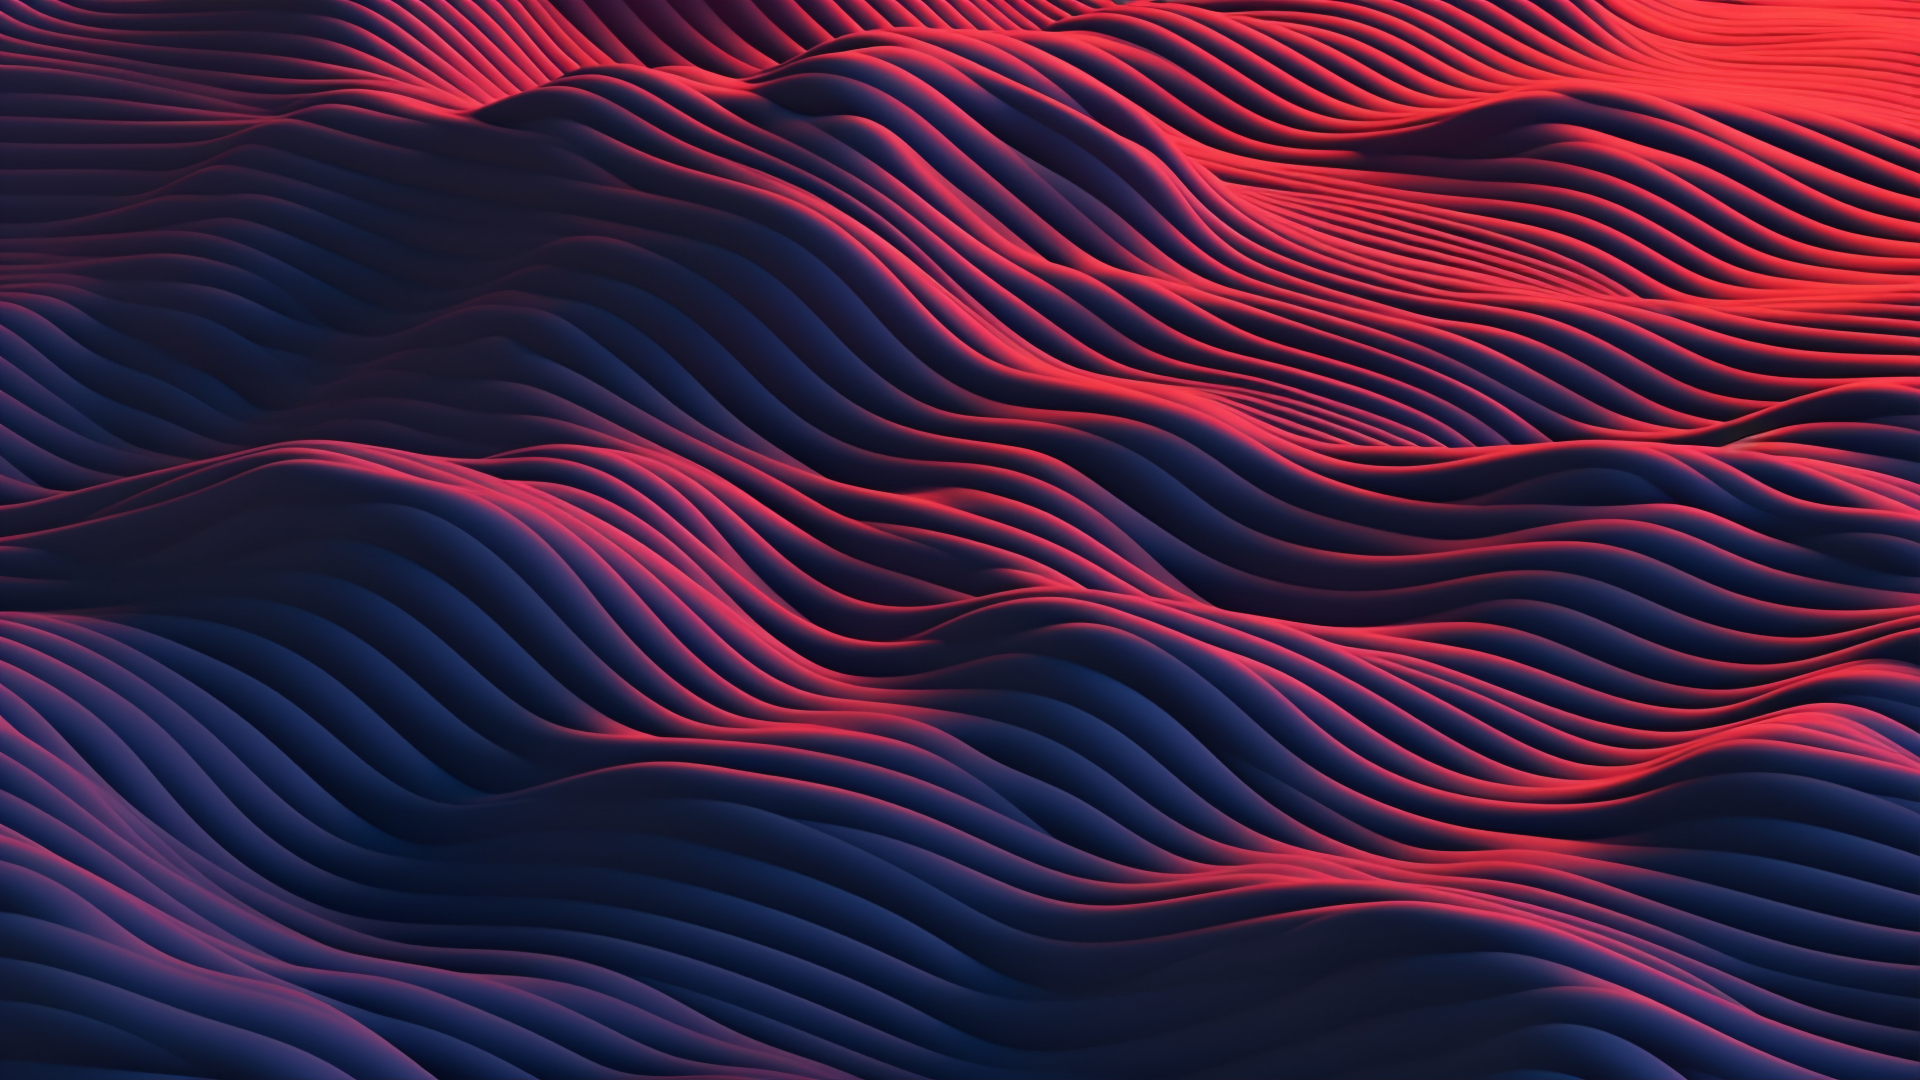
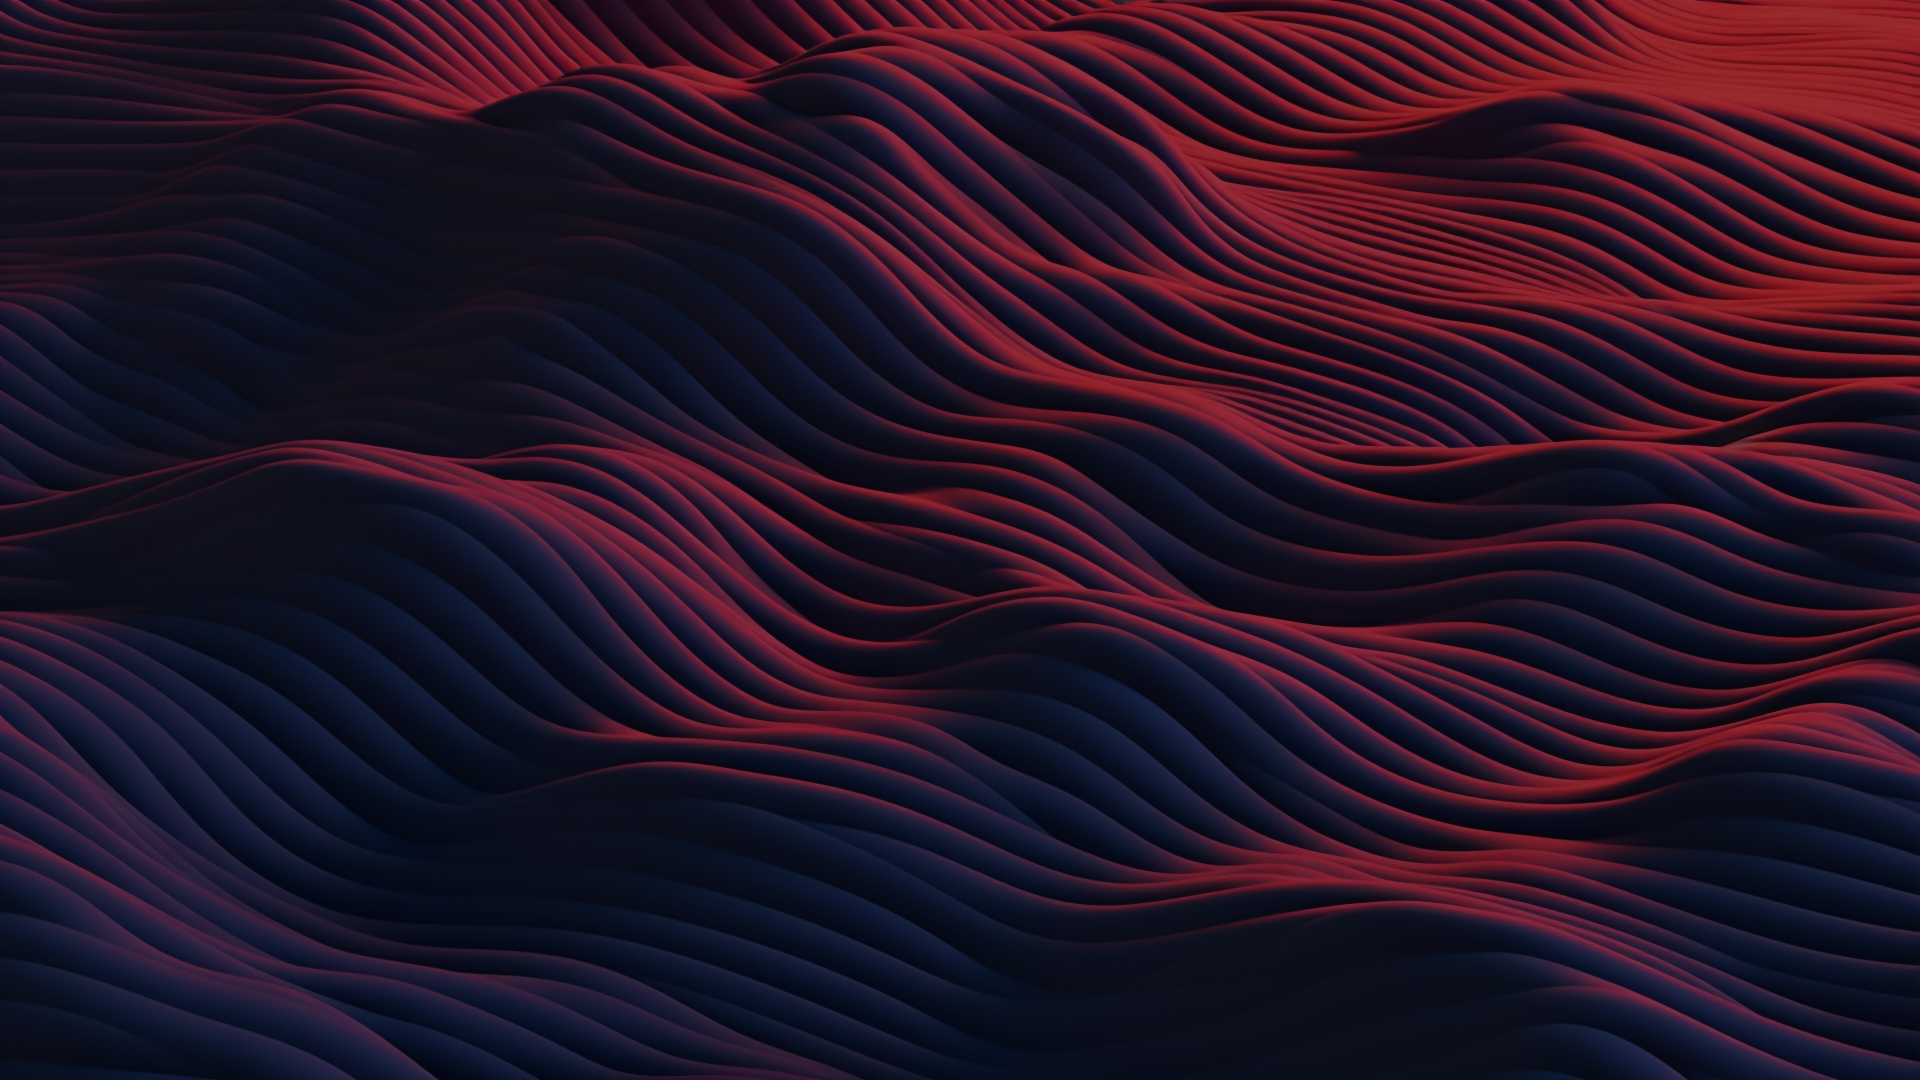
Layouts, backgrounds, and other quick fixes

diff --git a/src/pages/SingleMovie/SingleMovie.js b/src/pages/SingleMovie/SingleMovie.js
@@ -32,10 +32,10 @@ export default class SingleMovie extends Lightning.Component {
           zIndex: 2,
         },
         Image: {
-          w: 1570,
-          h: 1080,
           y: 0,
           x: 350,
+          w: 1570,
+          h: 883,
           zIndex: 1,
         },
         BackButton: {
@@ -164,6 +164,7 @@ export default class SingleMovie extends Lightning.Component {
                 TextValue: {
                   w: 700,
                   h: 90,
+                  flexItem: { marginLeft: 20 },
                   text: {
                     text: '',
                     fontSize: 22,
@@ -191,6 +192,7 @@ export default class SingleMovie extends Lightning.Component {
                 TextValue: {
                   w: 700,
                   h: 90,
+                  flexItem: { marginLeft: 20 },
                   text: {
                     text: '',
                     fontSize: 22,
@@ -218,6 +220,7 @@ export default class SingleMovie extends Lightning.Component {
                 TextValue: {
                   w: 700,
                   h: 90,
+                  flexItem: { marginLeft: 20 },
                   text: {
                     text: '',
                     fontSize: 22,
@@ -247,6 +250,7 @@ export default class SingleMovie extends Lightning.Component {
                 TextValue: {
                   w: 700,
                   h: 90,
+                  flexItem: { marginLeft: 20 },
                   text: {
                     text: '',
                     fontSize: 22,
@@ -468,7 +472,7 @@ export default class SingleMovie extends Lightning.Component {
                 },
                 TextValue: {
                   text: {
-                    text: genre,
+                    text: genre.charAt(0).toUpperCase() + genre.slice(1),
                   },
                 },
               },

diff --git a/src/pages/MyAccount/MyAccount.js b/src/pages/MyAccount/MyAccount.js
@@ -40,6 +40,10 @@ export default class MyAccount extends Lightning.Component {
       collision: true,
       Background: {
         src: Utils.asset(IMG_PATH.BACKGROUND_SEARCH_PAGE),
+        y: 0,
+        x: 350,
+        w: 1570,
+        h: 883,
         zIndex: 1,
       },
       Overlay: {
@@ -228,11 +232,11 @@ export default class MyAccount extends Lightning.Component {
               y: 100,
               Title: {
                 h: 120,
-                w: 600,
+                w: 700,
                 text: {
                   text: t(TRANSLATIONS.SIGNUP_TITLE),
                   wordWrap: true,
-                  wordWrapWidth: 500,
+                  wordWrapWidth: 600,
                   maxLines: 2,
                   maxLinesSuffix: '...',
                 },

diff --git a/src/Services/LanguageService/TranslationService.js b/src/Services/LanguageService/TranslationService.js
@@ -7,9 +7,7 @@ const lngCode =
   navigator.language ||
   navigator.userLanguage ||
   'en-';
-const defTr = await import(
-  `../../../public/static/translations/${lngCode.split('-')[0] || 'en'}.json`
-);
+const defTr = await import(`../../../public/static/translations/en.json`);
 
 let translationsVar = undefined;
 export default class TranslationService {
@@ -52,5 +50,7 @@ export { translationService as TranslationService };
  * @param { keyof typeof defTr } key
  */
 export function t(key) {
+  console.log(defTr[key]);
+  console.log(key, translationsVar && translationsVar[key] ? translationsVar[key] : defTr[key]);
   return translationsVar && translationsVar[key] ? translationsVar[key] : defTr[key];
 }

diff --git a/src/pages/Help/HelpScreen.js b/src/pages/Help/HelpScreen.js
@@ -17,9 +17,11 @@ export default class HelpScreen extends Lightning.Component {
   static _template() {
     return {
       Background: {
-        w: 1920,
-        h: 1080,
         src: Utils.asset(IMG_PATH.BACKGROUND_SUPPORT_PAGES),
+        y: 0,
+        x: 350,
+        w: 1570,
+        h: 883,
         zIndex: 1,
       },
       Overlay: {

diff --git a/src/pages/Settings/Settings.js b/src/pages/Settings/Settings.js
@@ -10,9 +10,11 @@ export default class Settings extends Lightning.Component {
   static _template() {
     return {
       Background: {
-        w: 1920,
-        h: 1080,
         src: Utils.asset(IMG_PATH.BACKGROUND_SUPPORT_PAGES),
+        y: 0,
+        x: 350,
+        w: 1570,
+        h: 883,
         zIndex: 1,
       },
       Overlay: {

diff --git a/src/pages/VodPreview/VodPreview.js b/src/pages/VodPreview/VodPreview.js
@@ -212,7 +212,7 @@ export default class VodPreview extends Lightning.Component {
   calculateContentOffset(contentType) {
     switch (contentType) {
       case CONTENT_TYPE.EVENTS:
-        return 530;
+        return 580;
       case CONTENT_TYPE.CATEGORIES:
         return 200;
       case CONTENT_TYPE.EMPTY:

diff --git a/src/pages/Search/Search.js b/src/pages/Search/Search.js
@@ -35,6 +35,10 @@ export default class Search extends Lightning.Component {
       h: 1080,
       Background: {
         src: Utils.asset(IMG_PATH.BACKGROUND_SEARCH_PAGE),
+        y: 0,
+        x: 350,
+        w: 1570,
+        h: 883,
         zIndex: 1,
       },
       Overlay: {
